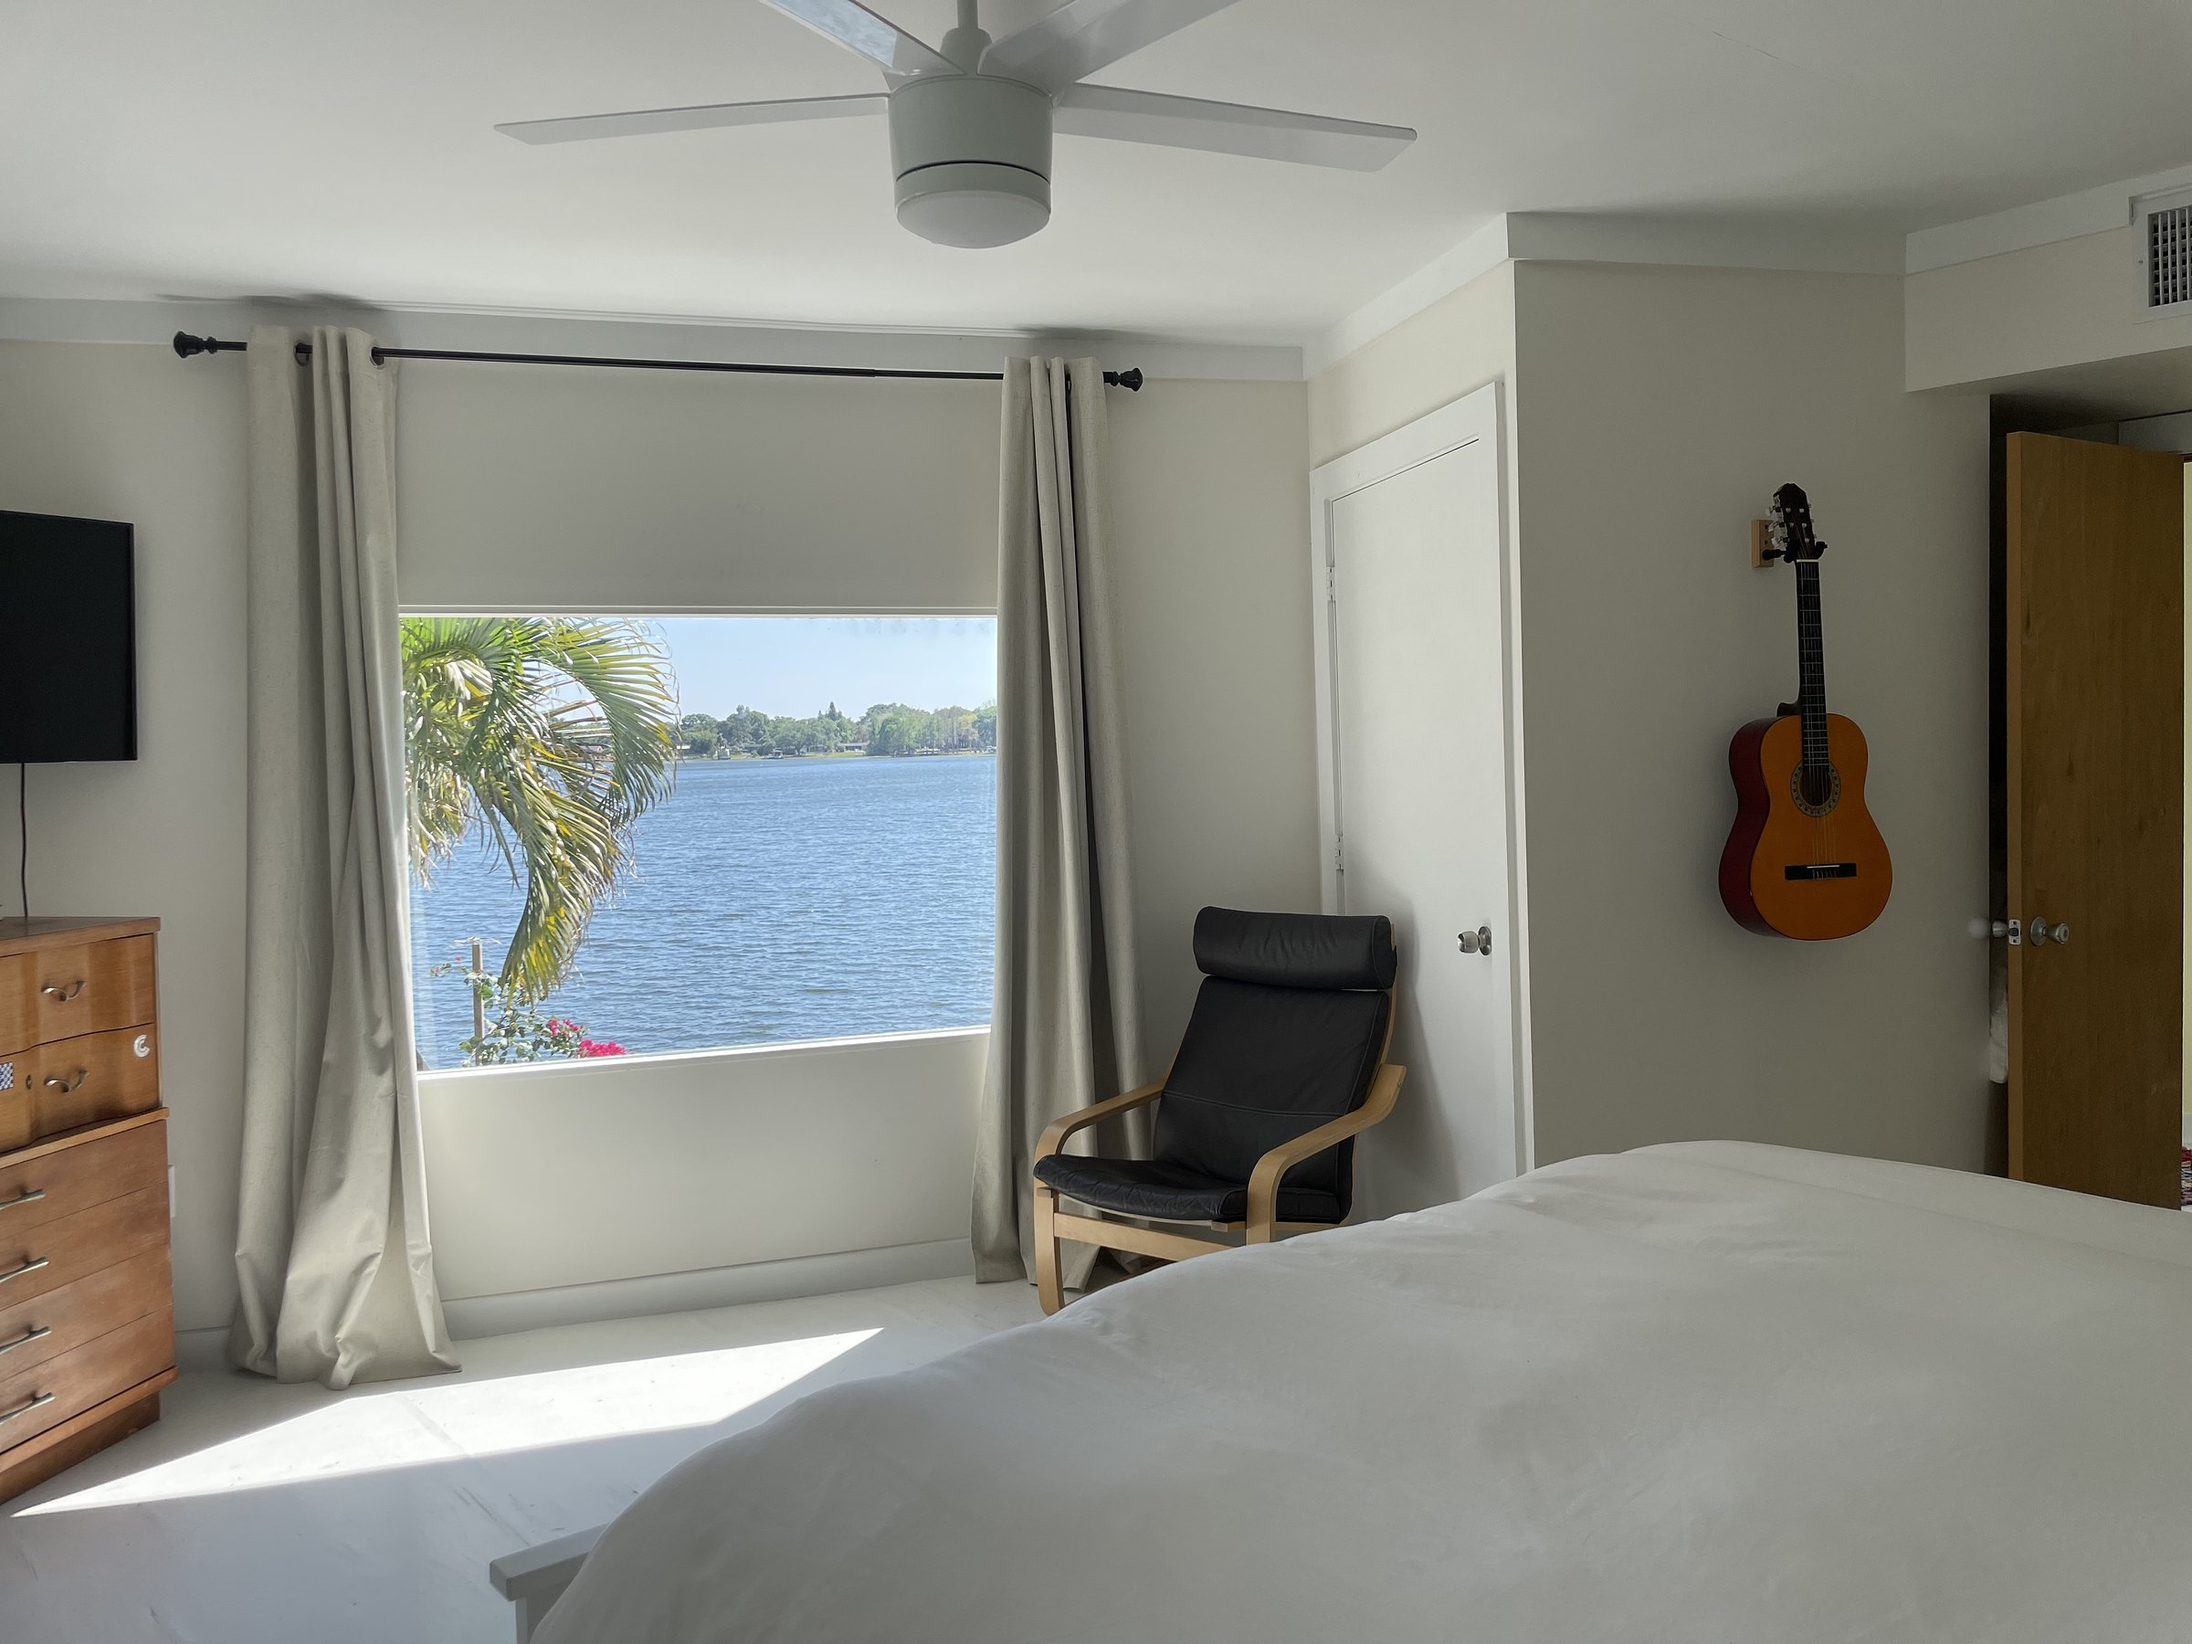
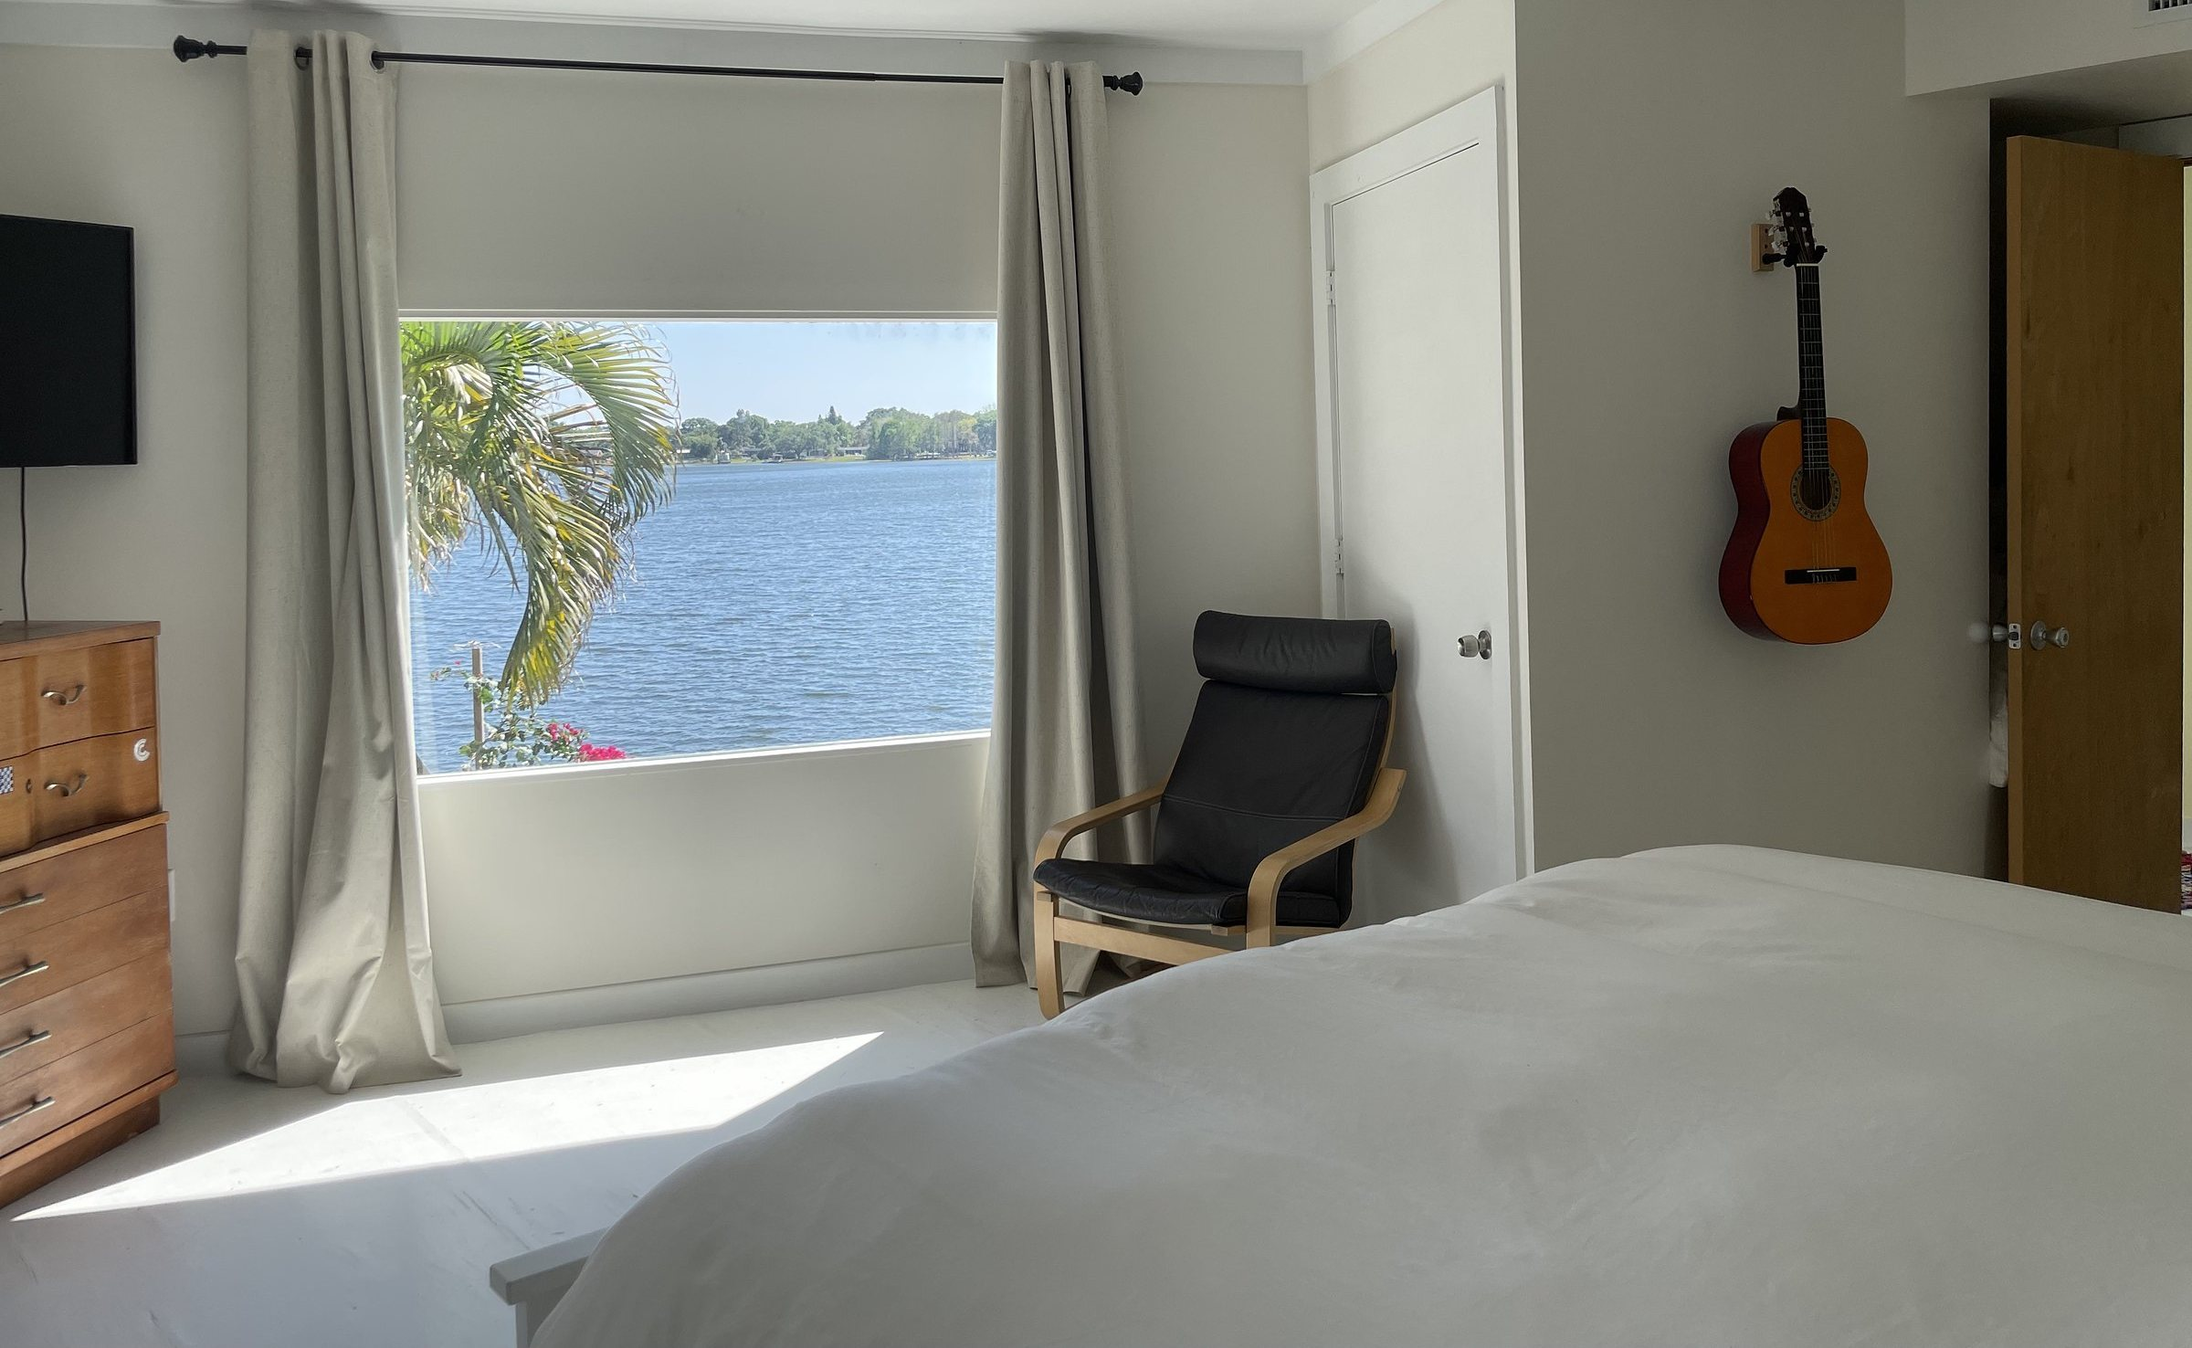
Launch QA: image framing, auto-rotation, landscape phones, SEO basics
- Fixed crops that missed the subject: coaching 'Your turn' banner (was only sky), coaching hero (Glen framed; phone uses a portrait of Glen), home closing banner, rates and athletes banners, 'Your first session' and bedroom photos
- Hero and rider spotlight now auto-rotate on desktop (they paused whenever the cursor was anywhere over them); they pause only while hovering their own controls
- Phones in landscape: hero fits one screen; menu fits; safe-area padding for notched phones
- Custom 404, sitemap.xml, robots.txt, social share image, app icon and favicon in brand colours, business details for Google (schema.org), canonical URL, copyright year

Claude-Session: https://claude.ai/code/session_019NFFDagqXTWJnptVQoaJQR

diff --git a/app/globals.css b/app/globals.css
@@ -500,7 +500,7 @@ a:hover > .flip .flip__b, a:focus-visible > .flip .flip__b { transform: translat
   .hero__title { font-size: 24px; margin-bottom: 18px; }
   .hero__shade { background: linear-gradient(0deg, rgba(11,17,22,.94) 0%, rgba(11,17,22,.78) 30%, rgba(11,17,22,.25) 55%, rgba(11,17,22,0) 70%, rgba(11,17,22,.45) 100%) !important; }
   .hero__top { display: none; }
-  .glen__media > img { object-position: 50% 78% !important; }
+  .glen__media > img:not(.only-mob) { object-position: 50% 78% !important; }
   .site-footer a { display: inline-block; padding: 6px 0; }
   .u-link { padding-top: 8px; padding-bottom: 8px; background-position: 0 calc(100% - 4px); }
   .film-chip { padding: 6px 16px 6px 6px; gap: 10px; }
@@ -638,3 +638,24 @@ a:hover > .flip .flip__b, a:focus-visible > .flip .flip__b { transform: translat
 @media (max-width: 1100px) { .ath-grid { grid-template-columns: repeat(2, minmax(0, 1fr)); } }
 @media (max-width: 640px) { .ath-grid { grid-template-columns: 1fr; } .ath-card__media { aspect-ratio: 4 / 4.6; } }
 .boat__viewer { position: relative; isolation: isolate; }
+.page-hero--full { min-height: 100svh; }
+
+/* Phones held sideways: keep the hero to one screen */
+@media (max-height: 500px) and (orientation: landscape) {
+  .hero__inner { padding-top: calc(var(--header-h) + 4px); padding-bottom: 12px; }
+  .hero__top, .hero__lede, .film-chip { display: none; }
+  .hero__mid { flex-direction: row; align-items: flex-end; padding-bottom: 12px; }
+  .hero__title { font-size: 22px; margin-bottom: 12px; max-width: 26ch; }
+  .hero__word { font-size: min(9cqi, 64px); padding-bottom: 8px; }
+  .hero__shade { background: linear-gradient(0deg, rgba(11,17,22,.9) 0%, rgba(11,17,22,.5) 45%, rgba(11,17,22,.1) 75%, rgba(11,17,22,.4) 100%) !important; }
+  .page-hero { min-height: 100svh; }
+  .mobile-menu__link { font-size: 30px; padding: 6px 0; }
+}
+/* Notched phones in landscape */
+.wrap, .site-header__bar { padding-left: max(var(--gutter), env(safe-area-inset-left)); padding-right: max(var(--gutter), env(safe-area-inset-right)); }
+
+.only-mob { display: none; }
+@media (max-width: 700px) { .only-desk { display: none; } .only-mob { display: block; } }
+.page-hero .eyebrow { text-shadow: 0 1px 10px rgba(0,0,0,.6); }
+.glen__media > img.only-mob { display: none; }
+@media (max-width: 700px) { .glen__media > img.only-desk { display: none; } .glen__media > img.only-mob { display: block; } }

diff --git a/app/coaching/page.tsx b/app/coaching/page.tsx
@@ -13,7 +13,8 @@ export default function CoachingPage() {
   return (
     <>
       <section className="page-hero">
-        <Image src="/images/glen-tower.jpg" alt="Glen on the boat under the tower, Lake Barton" fill priority quality={85} sizes="100vw" style={{ objectPosition: "60% 45%" }} />
+        <Image className="only-desk" src="/images/glen-tower.jpg" alt="Glen at the wheel under the tower, Lake Barton" fill priority quality={85} sizes="100vw" style={{ objectPosition: "86% 72%" }} />
+        <Image className="only-mob" src="/images/glen-helm.jpg" alt="" fill quality={85} sizes="100vw" style={{ objectPosition: "50% 18%" }} />
         <div className="wrap page-hero__inner">
           <p className="eyebrow eyebrow--cyan">Coaching</p>
           <h1 className="display display--hero">Coached by Glen.</h1>
@@ -35,7 +36,8 @@ export default function CoachingPage() {
           </div>
         </div>
         <div className="glen__media">
-          <Image src="/images/glen-helm.jpg" alt="Glen Fletcher at the helm, handle in hand" fill quality={85} sizes="(max-width: 900px) 100vw, 55vw" />
+          <Image className="only-desk" src="/images/glen-helm.jpg" alt="Glen Fletcher at the helm, handle in hand" fill quality={85} sizes="(max-width: 900px) 100vw, 55vw" />
+          <Image className="only-mob" src="/images/glen-driving.jpg" alt="Glen Fletcher driving the boat" fill quality={85} sizes="100vw" style={{ objectPosition: "40% 55%" }} />
           <figure className="glen__inset">
             <Image src="/images/dock-guitar.jpg" alt="An acoustic guitar on the O’Town dock at sunrise" fill quality={85} sizes="280px" />
             <figcaption>The dock, most mornings.</figcaption>
@@ -87,7 +89,7 @@ export default function CoachingPage() {
       </section>
 
       <section className="cta-band cta-band--short" aria-labelledby="cta-title">
-        <Image src="/images/trampoline.jpg" alt="" fill sizes="100vw" quality={85} style={{ objectPosition: "50% 35%" }} />
+        <Image src="/images/hero-bec-invert.jpg" alt="" fill sizes="(orientation: portrait) 150vh, 100vw" quality={85} style={{ objectPosition: "52% 28%" }} />
         <div className="wrap cta-band__inner">
           <h2 id="cta-title" className="display display--xl">Your turn.</h2>
           <div className="actions">

diff --git a/app/layout.tsx b/app/layout.tsx
@@ -7,24 +7,44 @@ import SiteFooter from "@/components/SiteFooter";
 import SmoothAnchors from "@/components/SmoothAnchors";
 import Reveal from "@/components/Reveal";
 
+const SITE = process.env.NEXT_PUBLIC_SITE_URL ?? "https://otown-watersports.vercel.app";
+
 export const metadata: Metadata = {
+  metadataBase: new URL(SITE),
   title: "O’Town Watersports — Wakeboard & wakesurf coaching on Lake Barton, Orlando",
   description:
     "Wakeboard and wakesurf coaching with Glen Fletcher on Lake Barton, Orlando. From your first ride to the trick you’ve been working toward. Learn. Ride. Progress.",
   openGraph: {
     title: "O’Town Watersports",
     description: "Wakeboard and wakesurf coaching on Lake Barton, Orlando.",
-    images: ["/images/hero-alize-air.jpg"],
+    siteName: "O’Town Watersports",
+    type: "website",
+    locale: "en_US",
   },
+  twitter: { card: "summary_large_image" },
+  alternates: { canonical: "/" },
 };
 
-export const viewport: Viewport = { themeColor: "#0B1116" };
+const jsonLd = {
+  "@context": "https://schema.org",
+  "@type": "SportsActivityLocation",
+  name: "O’Town Watersports",
+  description: "Wakeboard and wakesurf coaching with Glen Fletcher on Lake Barton, Orlando.",
+  url: SITE,
+  telephone: "+1-407-380-0734",
+  email: "info@otownwatersports.com",
+  address: { "@type": "PostalAddress", streetAddress: "5220 E Colonial Dr", addressLocality: "Orlando", addressRegion: "FL", postalCode: "32807", addressCountry: "US" },
+  sameAs: ["https://www.instagram.com/fletcherotown/", "https://www.facebook.com/otownwatersports/"],
+};
+
+export const viewport: Viewport = { themeColor: "#0B1116", viewportFit: "cover" };
 
 export default function RootLayout({ children }: { children: React.ReactNode }) {
   return (
     <html lang="en">
       <body>
         <a className="skip" href="#main">Skip to content</a>
+        <script type="application/ld+json" dangerouslySetInnerHTML={{ __html: JSON.stringify(jsonLd) }} />
         <SiteHeader />
         <main id="main">{children}</main>
         <SiteFooter />

diff --git a/components/RiderSpotlight.tsx b/components/RiderSpotlight.tsx
@@ -36,8 +36,7 @@ export default function RiderSpotlight() {
 
   return (
     <section className="riders" id="riders" aria-labelledby="riders-title"
-      onMouseEnter={() => setPaused(true)} onMouseLeave={() => setPaused(false)}
-      onFocusCapture={() => setPaused(true)} onBlurCapture={() => setPaused(false)}>
+>
       <div className="riders__stage">
         <div className="riders__copy wrap-left">
           <p className="eyebrow eyebrow--cyan" id="riders-title">Riders Glen has worked with</p>
@@ -78,7 +77,7 @@ export default function RiderSpotlight() {
             <span className="up-next__text"><span>Up next</span>{nx.name}</span>
           </button>
 
-          <div className="pill-tabs" role="tablist" aria-label="Riders" ref={tabsRef}>
+          <div className="pill-tabs" role="tablist" aria-label="Riders" ref={tabsRef} onMouseEnter={() => setPaused(true)} onMouseLeave={() => setPaused(false)} onFocusCapture={() => setPaused(true)} onBlurCapture={() => setPaused(false)}>
             {spotlight.map((s, n) => (
               <button key={s.key} type="button" role="tab" aria-selected={n === i} className={`pill-tab${n === i ? " is-active" : ""}`} onClick={() => setI(n)}>
                 {s.name.split(" ")[0]}

diff --git a/components/HeroSlider.tsx b/components/HeroSlider.tsx
@@ -66,10 +66,6 @@ export default function HeroSlider() {
       className={`hero${auto && !paused ? " is-playing" : ""}`}
       aria-roledescription="carousel"
       aria-label="O’Town on Lake Barton"
-      onMouseEnter={() => setPaused(true)}
-      onMouseLeave={() => setPaused(false)}
-      onFocusCapture={() => setPaused(true)}
-      onBlurCapture={() => setPaused(false)}
     >
       <div className="hero__slides">
         {heroSlides.map((sl, n) => (
@@ -118,7 +114,7 @@ export default function HeroSlider() {
           </VideoDialog>
         </div>
 
-        <div className="hero__words" role="tablist" aria-label="Learn, ride, progress — choose a photo">
+        <div className="hero__words" role="tablist" onMouseEnter={() => setPaused(true)} onMouseLeave={() => setPaused(false)} onFocusCapture={() => setPaused(true)} onBlurCapture={() => setPaused(false)} aria-label="Learn, ride, progress — choose a photo">
           {heroSlides.map((sl, n) => (
             <button key={sl.key} type="button" role="tab" aria-selected={n === i} aria-label={`${sl.label}: ${sl.caption}`}
               className={`hero__word${n === i ? " is-active" : ""}`} onClick={() => go(n)}>

diff --git a/app/not-found.tsx b/app/not-found.tsx
@@ -1,0 +1,19 @@
+import Image from "next/image";
+import Link from "next/link";
+
+export default function NotFound() {
+  return (
+    <section className="page-hero page-hero--full">
+      <Image src="/images/bg-sunset-air.jpg" alt="" fill priority quality={80} sizes="100vw" style={{ objectPosition: "30% 30%" }} />
+      <div className="wrap page-hero__inner">
+        <p className="eyebrow eyebrow--cyan">404</p>
+        <h1 className="display display--hero">Missed the handle.</h1>
+        <p>This page doesn’t exist. Let’s get you back behind the boat.</p>
+        <div className="actions" style={{ marginTop: 28 }}>
+          <Link href="/" className="btn btn--primary btn--pill btn--lg">Back to home</Link>
+          <Link href="/plan" className="u-link u-link--light">Plan your session</Link>
+        </div>
+      </div>
+    </section>
+  );
+}

diff --git a/app/rates/page.tsx b/app/rates/page.tsx
@@ -13,7 +13,7 @@ export default function RatesPage() {
   return (
     <>
       <section className="page-hero">
-        <Image src="/images/bg-sunset-air.jpg" alt="A rider inverted high above the wake at sunset" fill priority quality={85} sizes="(orientation: portrait) 150vh, 100vw" style={{ objectPosition: "42% 30%" }} />
+        <Image src="/images/bg-sunset-air.jpg" alt="A rider inverted high above the wake at sunset" fill priority quality={85} sizes="(orientation: portrait) 150vh, 100vw" style={{ objectPosition: "28% 16%" }} />
         <div className="wrap page-hero__inner page-hero__inner--rates">
           <p className="eyebrow eyebrow--cyan">Rates</p>
           <h1 className="display display--hero">Rates &amp; booking.</h1>

diff --git a/app/page.tsx b/app/page.tsx
@@ -174,7 +174,7 @@ export default function Home() {
 
       {/* Closing call to action */}
       <section className="cta-band" aria-labelledby="cta-title">
-        <Image src="/images/bg-bec-boat.jpg" alt="" fill sizes="(orientation: portrait) 160vh, 100vw" quality={85} style={{ objectPosition: "50% 30%" }} />
+        <Image src="/images/bg-bec-boat.jpg" alt="" fill sizes="(orientation: portrait) 160vh, 100vw" quality={85} style={{ objectPosition: "50% 62%" }} />
         <div className="wrap cta-band__inner">
           <h2 id="cta-title" className="display display--xl">Your next set<br />starts here.</h2>
           <div className="actions">

diff --git a/app/athletes/page.tsx b/app/athletes/page.tsx
@@ -59,7 +59,7 @@ export default function AthletesPage() {
       </section>
 
       <section className="cta-band cta-band--short" aria-labelledby="cta-title">
-        <Image src="/images/bg-sunset-air.jpg" alt="" fill sizes="(orientation: portrait) 150vh, 100vw" quality={85} style={{ objectPosition: "42% 30%" }} />
+        <Image src="/images/bg-sunset-air.jpg" alt="" fill sizes="(orientation: portrait) 150vh, 100vw" quality={85} style={{ objectPosition: "28% 14%" }} />
         <div className="wrap cta-band__inner">
           <h2 id="cta-title" className="display display--xl">Next on the list?</h2>
           <div className="actions">

diff --git a/content/site.ts b/content/site.ts
@@ -207,7 +207,7 @@ export const experiences = [
     body: "Start behind the boat with a coach who has taught every kind of rider — from standing up for the first time to riding comfortably across the wake.",
     image: "/images/dock-boat-tube.jpg",
     alt: "The boat at the O’Town dock, ready for the next rider",
-    position: "50% 60%",
+    position: "50% 70%",
   },
   {
     key: "coaching" as ActivityKey,

diff --git a/app/sitemap.ts b/app/sitemap.ts
@@ -1,0 +1,11 @@
+import type { MetadataRoute } from "next";
+
+const SITE = process.env.NEXT_PUBLIC_SITE_URL ?? "https://otown-watersports.vercel.app";
+
+export default function sitemap(): MetadataRoute.Sitemap {
+  return ["", "/coaching", "/rates", "/athletes", "/plan"].map((p) => ({
+    url: `${SITE}${p}`,
+    changeFrequency: "monthly",
+    priority: p === "" ? 1 : 0.8,
+  }));
+}

diff --git a/components/SiteFooter.tsx b/components/SiteFooter.tsx
@@ -31,7 +31,7 @@ export default function SiteFooter() {
           </div>
         </div>
         <div className="site-footer__base">
-          <span>© O’Town Watersports · Lake Barton, Orlando</span>
+          <span>© {new Date().getFullYear()} O’Town Watersports · Lake Barton, Orlando</span>
           <span>Open every week of the year</span>
         </div>
       </div>
